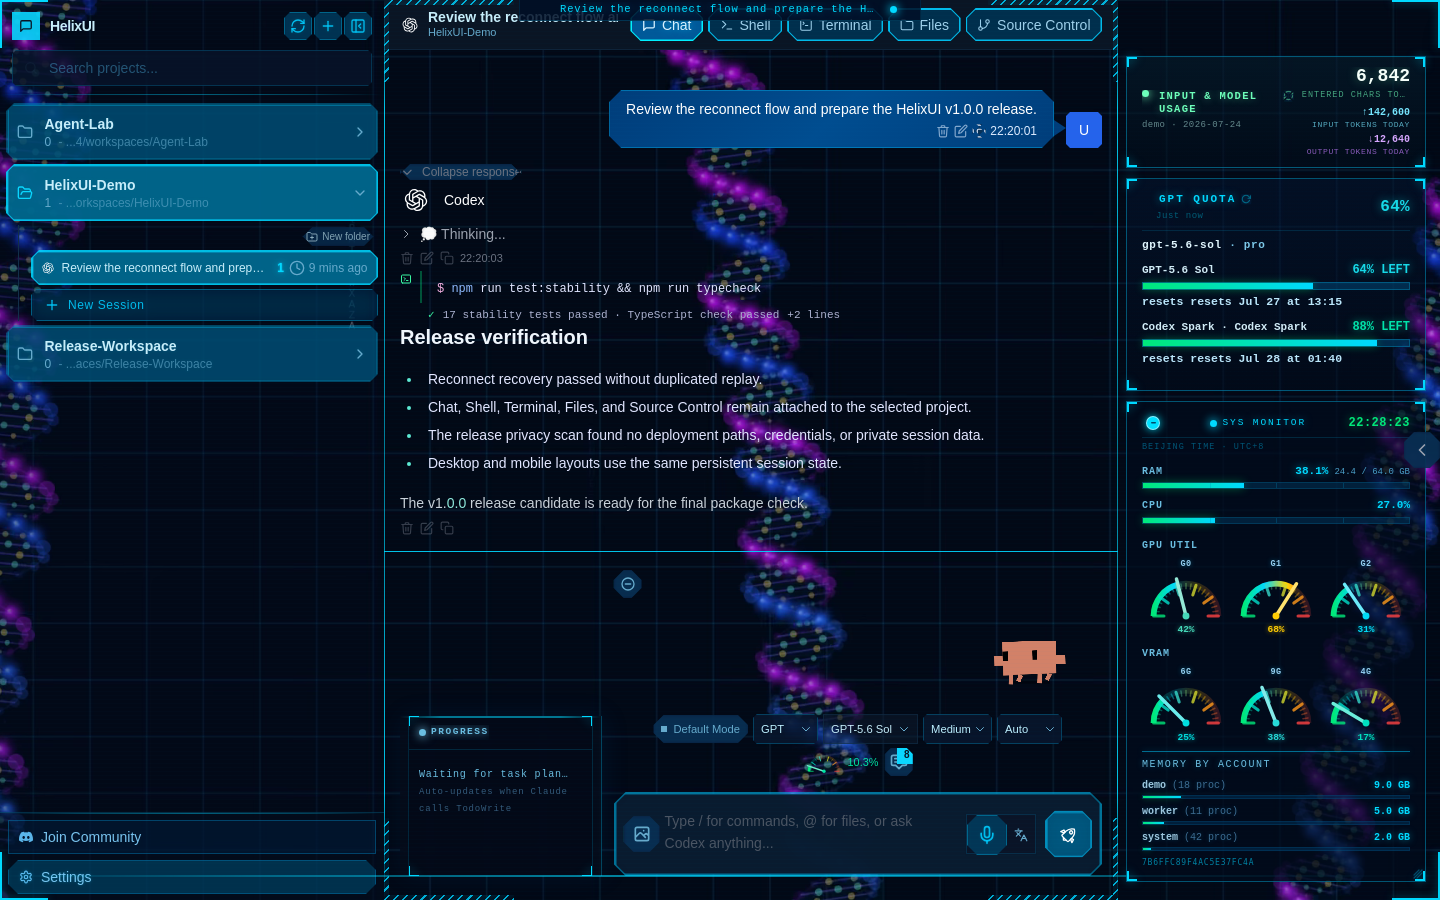
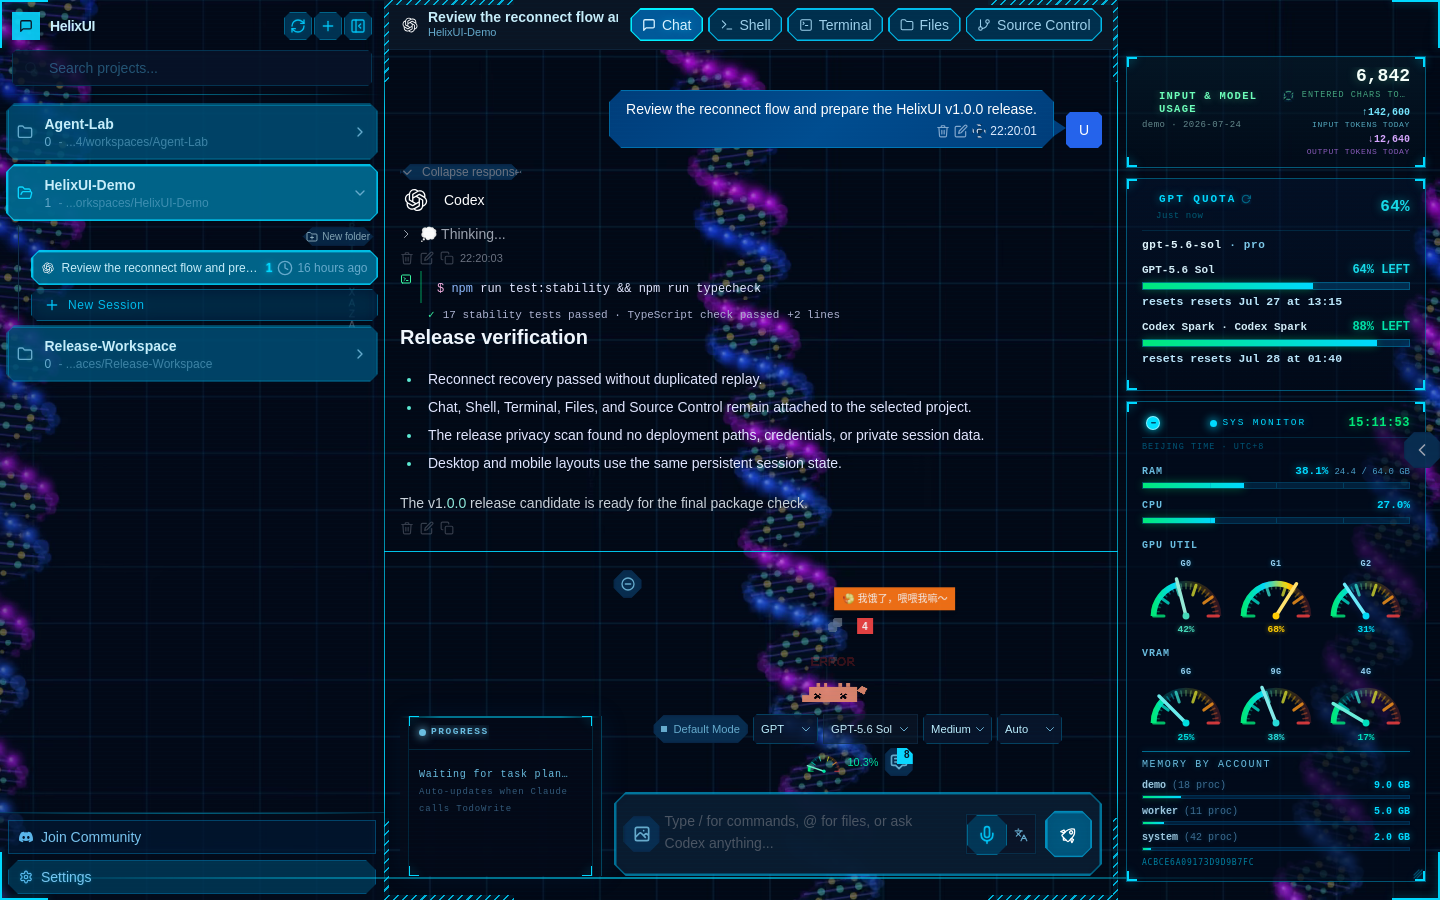
fix: keep navigation clear in technology theme

diff --git a/src/components/tech/HUDOverlay.tsx b/src/components/tech/HUDOverlay.tsx
@@ -1595,28 +1595,6 @@ export default function HUDOverlay({
         <Corner pos="bl" size={48} animate={animationEnabled} />
         <Corner pos="br" size={48} animate={animationEnabled} />
 
-        {/* 顶部中央标题条：窄屏（<1024px）隐藏，避免与 header 右侧 Chat/Shell 标签重叠 */}
-        {viewportW >= 1024 && (
-        <div style={{
-          position: 'absolute', top: 0, left: '50%', transform: 'translateX(-50%)',
-          display: 'flex', alignItems: 'center', gap: 10,
-          maxWidth: 'calc(100vw - 360px)', overflow: 'hidden', boxSizing: 'border-box',
-          padding: '2px 18px',
-          background: 'rgba(0,14,38,0.86)',
-          borderBottom: '1px solid rgba(0,180,230,0.22)',
-          borderLeft:   '1px solid rgba(0,180,230,0.12)',
-          borderRight:  '1px solid rgba(0,180,230,0.12)',
-          contain: 'layout style',
-          ...mono,
-        }}>
-          <Dot ms={900} animate={animationEnabled} />
-          <span style={{ color: '#00d9ff', fontSize: sessionName ? 10.5 : 9.5, letterSpacing: sessionName ? '0.08em' : '0.22em', textShadow: '0 0 8px rgba(0,217,255,0.5)', maxWidth: 320, overflow: 'hidden', textOverflow: 'ellipsis', whiteSpace: 'nowrap' }}>
-            {sessionName || 'AI COMMAND INTERFACE'}
-          </span>
-          <Dot ms={1300} animate={animationEnabled} />
-        </div>
-        )}
-
       </div>
 
       {/* ════ 悬浮球（收起状态）════ */}

diff --git a/README.md b/README.md
@@ -14,9 +14,9 @@
 </p>
 
 <p align="center">
-  <img src="docs/assets/operations-console.png" alt="HelixUI observability console with Goal, usage, quota, live-turn, and resource panels" width="100%">
+  <img src="docs/assets/workspace-overview.png" alt="Complete HelixUI desktop workspace with projects, sessions, Chat, navigation, Progress, input controls, and system HUD" width="100%">
 </p>
-<p align="center"><sub>A genuine HelixUI browser capture from an isolated demo instance. Account, usage, quota, and system values are privacy-safe demo data rendered by the real interface.</sub></p>
+<p align="center"><sub>A genuine full-workspace browser capture from an isolated HelixUI demo instance.</sub></p>
 
 HelixUI is not just a browser wrapper around an agent CLI. It is a visual
 operations workspace for people who keep several AI coding sessions running,
@@ -62,16 +62,18 @@ providers while keeping the terminal-native workflow underneath.
 
 ## The workspace
 
-### Complete desktop command center
+### Observability without leaving the workspace
 
 <p align="center">
-  <img src="docs/assets/workspace-overview.png" alt="Complete HelixUI desktop workspace with projects, sessions, Chat, navigation, Progress, input controls, and system HUD" width="100%">
+  <img src="docs/assets/operations-console.png" alt="HelixUI usage console with account totals and daily activity heatmaps" width="100%">
 </p>
+<p align="center"><sub>Account, usage, quota, and system values are privacy-safe demo data rendered by the real interface.</sub></p>
 
-The optional technology theme uses a DNA double-helix scene, grid-aligned
-surfaces, compact HUD panels, and color-coded terminal output. Two restrained
-themes are included for users who prefer a conventional workspace. Visual
-styling never changes session behavior or provider data.
+Usage details open over the active workspace instead of sending you to a
+separate dashboard. The optional technology theme uses a DNA double-helix
+scene, grid-aligned surfaces, compact HUD panels, and color-coded terminal
+output. Two restrained themes are included for users who prefer a conventional
+workspace.
 
 ### The same running session on mobile
 

diff --git a/README.zh-CN.md b/README.zh-CN.md
@@ -14,9 +14,9 @@
 </p>
 
 <p align="center">
-  <img src="docs/assets/operations-console.png" alt="HelixUI Goal、用量、额度、实时工作与系统资源面板" width="100%">
+  <img src="docs/assets/workspace-overview.png" alt="包含项目、会话、Chat、导航、Progress、输入区和系统 HUD 的完整 HelixUI 桌面工作区" width="100%">
 </p>
-<p align="center"><sub>来自隔离演示实例的真实 HelixUI 浏览器截图。账号、用量、额度和系统数值均为由真实界面渲染的隐私安全演示数据。</sub></p>
+<p align="center"><sub>来自隔离 HelixUI 演示实例的真实完整工作区浏览器截图。</sub></p>
 
 HelixUI 不只是把代理 CLI 套进浏览器。它是为同时运行多个 AI 编程会话、需要从
 不同设备回来继续工作，并且关心“谁正在运行、何时结束、占用了多少上下文、主机
@@ -55,14 +55,16 @@ HelixUI 不只是把代理 CLI 套进浏览器。它是为同时运行多个 AI 
 
 ## 工作区
 
-### 完整桌面控制台
+### 不离开工作区即可查看可观测信息
 
 <p align="center">
-  <img src="docs/assets/workspace-overview.png" alt="包含项目、会话、Chat、导航、Progress、输入区和系统 HUD 的完整 HelixUI 桌面工作区" width="100%">
+  <img src="docs/assets/operations-console.png" alt="包含账号总览与每日活动热力图的 HelixUI 用量面板" width="100%">
 </p>
+<p align="center"><sub>账号、用量、额度和系统数值均为由真实界面渲染的隐私安全演示数据。</sub></p>
 
-可选的科技主题使用 DNA 双螺旋场景、网格化界面、紧凑 HUD 和终端式彩色输出。
-同时提供两套更克制的传统工作主题。视觉风格不会改变会话行为或模型数据。
+用量详情直接覆盖在当前工作区上，无需跳转到独立仪表盘。可选的科技主题使用
+DNA 双螺旋场景、网格化界面、紧凑 HUD 和终端式彩色输出，同时提供两套更克制的
+传统工作主题。
 
 ### 在手机上延续同一个运行会话
 
